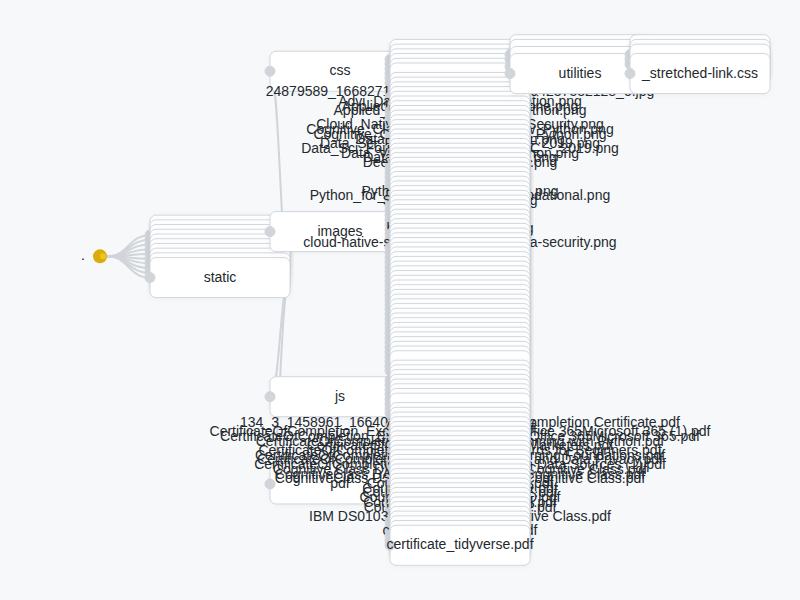
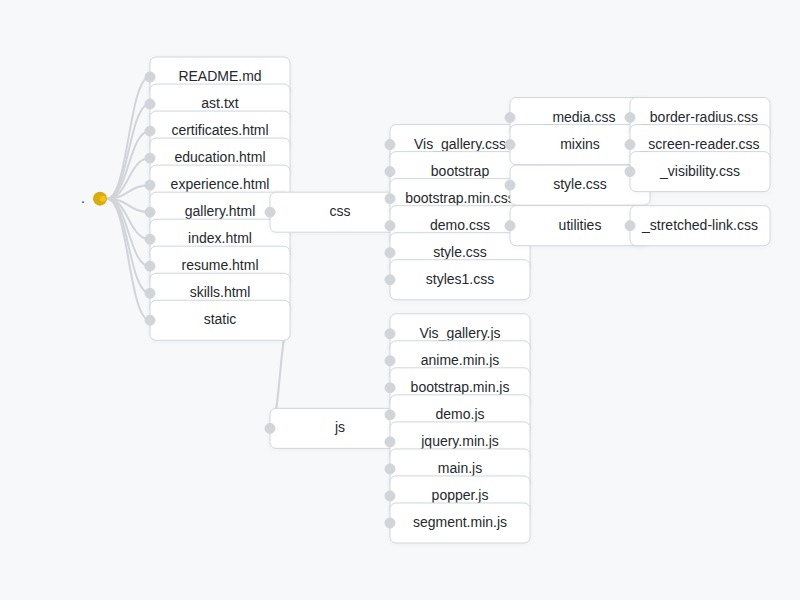
📦 Auto-update folder structure image and README

diff --git a/.github/rgraph/output.html b/.github/rgraph/output.html
@@ -51,7 +51,7 @@
 
   <script src="https://d3js.org/d3.v7.min.js"></script>
   <script>
-    const data = {"name":".","children":[{"name":"README.md"},{"name":"ast.txt"},{"name":"certificates.html"},{"name":"education.html"},{"name":"experience.html"},{"name":"gallery.html"},{"name":"index.html"},{"name":"resume.html"},{"name":"skills.html"},{"name":"static","children":[{"name":"css","children":[{"name":"Vis_gallery.css"},{"name":"bootstrap","children":[{"name":"_media.css"},{"name":"mixins","children":[{"name":"_border-radius.css"},{"name":"_screen-reader.css"},{"name":"_visibility.css"}]},{"name":"style.css"},{"name":"utilities","children":[{"name":"_stretched-link.css"}]}]},{"name":"bootstrap.min.css"},{"name":"demo.css"},{"name":"style.css"},{"name":"styles1.css"}]},{"name":"images","children":[{"name":"24879589_1668271593236377_8617789494237532128_o.jpg"},{"name":"400_1020-1.jpg"},{"name":"Advi_Data_Science_Specialization.png"},{"name":"Applied_Data_Science_Capstone.png"},{"name":"Applied_Data_Science_with_Python.png"},{"name":"Badge.png"},{"name":"CVD_DIST.svg"},{"name":"Cloud_Native_Sec_Conf_-_Data_Security.png"},{"name":"Cognitive_Class_-_Data_Analysis_w_Python.png"},{"name":"Cognitive_Class_-_Data_Visual_w_Python.png"},{"name":"Data_Analysis_using_Python.png"},{"name":"Data_Sci_Found_Level_1_-_CC_-_2019.png"},{"name":"Data_Sci_Foundations_Level_2_-_CC_-_2019.png"},{"name":"Data_Visualization_Using_Python.png"},{"name":"Data_Visualization_with_R.png"},{"name":"Deep_Learning_Essentials.png"},{"name":"FUll_Final.png"},{"name":"HD_main_Final.png"},{"name":"I2CS__1_.png"},{"name":"LSOPal8d.jpg"},{"name":"OIP.jpg"},{"name":"Python_101_Data_Science.png"},{"name":"Python_for_Data_Sci_and_AI_Foundational.png"},{"name":"Statistics_101_-_CC.png"},{"name":"UNI.jpg"},{"name":"UNI2.svg"},{"name":"UNID.jpg"},{"name":"UNIP.jpg"},{"name":"Wmap_RA_GB.png"},{"name":"bar chart-1.1s-47px.svg"},{"name":"bg.jpg"},{"name":"bgsv.svg"},{"name":"cloud-native-security-conference-data-security.png"},{"name":"credly.svg"},{"name":"datacleaning.png"},{"name":"dmimpot.png"},{"name":"dmr.png"},{"name":"dsbdge.png"},{"name":"favicon.ico"},{"name":"g11626.png"},{"name":"icon.png"},{"name":"icon.svg"},{"name":"logo.svg"},{"name":"logom.svg"},{"name":"logomain.svg"},{"name":"mm2.png"},{"name":"mnbg.svg"},{"name":"mysql.svg"},{"name":"overlay.png"},{"name":"pic01.jpg"},{"name":"pic02.jpg"},{"name":"pic03.jpg"},{"name":"pic04.jpg"},{"name":"pic05.jpg"},{"name":"pic06.jpg"},{"name":"pic07.jpg"},{"name":"pic08.jpg"},{"name":"pic09.jpg"},{"name":"worldmap-thumb-1.jpg"},{"name":"worldmap-thumb.jpg"}]},{"name":"js","children":[{"name":"Vis_gallery.js"},{"name":"anime.min.js"},{"name":"bootstrap.min.js"},{"name":"demo.js"},{"name":"jquery.min.js"},{"name":"main.js"},{"name":"popper.js"},{"name":"segment.min.js"}]},{"name":"pdf","children":[{"name":"134_3_1458961_1664024650_AWS Course Completion Certificate.pdf"},{"name":"Aws_data_migration.pdf"},{"name":"CertificateOfCompletion_Excel Essential Training Office 365Microsoft 365 (1).pdf"},{"name":"CertificateOfCompletion_Excel Essential Training Office 365Microsoft 365.pdf"},{"name":"CertificateOfCompletion_Functional Programming with Python.pdf"},{"name":"CertificateOfCompletion_GDPR for Marketers.pdf"},{"name":"CertificateOfCompletion_Power BI Dashboards for Beginners.pdf"},{"name":"CertificateOfCompletion_Reinforcement Learning Foundations.pdf"},{"name":"CertificateOfCompletion_Understand GDPR and Data Privacy.pdf"},{"name":"CertificateOfCompletion_Using Public Health Data Sources (1).pdf"},{"name":"Cognitive Class DV0151EN Certificate _ Cognitive Class.pdf"},{"name":"CognitiveClass DA0101EN Certificate _ Cognitive Class.pdf"},{"name":"CognitiveClass DS0105EN Certificate _ Cognitive Class.pdf"},{"name":"Coursera 7D2L7F69PJNU.pdf"},{"name":"Coursera 8FECG5TQ67QR.pdf"},{"name":"Coursera B2RPNHH5AN4Z.pdf"},{"name":"Coursera BFWEAWE6F6HD.pdf"},{"name":"Coursera L9YP7Y9DN3RM.pdf"},{"name":"Coursera SABWN423SF7P.pdf"},{"name":"Ds-handson.pdf"},{"name":"IBM DS0103EN Certificate _ Cognitive Class.pdf"},{"name":"certificate_EDA.pdf"},{"name":"certificate_clean_r.pdf"},{"name":"certificate_corr_reg_r.pdf"},{"name":"certificate_inter_r.pdf"},{"name":"certificate_stat.pdf"},{"name":"certificate_tidyverse.pdf"}]}]}]};
+    const data = {"name":".","children":[{"name":"README.md"},{"name":"ast.txt"},{"name":"certificates.html"},{"name":"education.html"},{"name":"experience.html"},{"name":"gallery.html"},{"name":"index.html"},{"name":"resume.html"},{"name":"skills.html"},{"name":"static","children":[{"name":"css","children":[{"name":"Vis_gallery.css"},{"name":"bootstrap","children":[{"name":"_media.css"},{"name":"mixins","children":[{"name":"_border-radius.css"},{"name":"_screen-reader.css"},{"name":"_visibility.css"}]},{"name":"style.css"},{"name":"utilities","children":[{"name":"_stretched-link.css"}]}]},{"name":"bootstrap.min.css"},{"name":"demo.css"},{"name":"style.css"},{"name":"styles1.css"}]},{"name":"js","children":[{"name":"Vis_gallery.js"},{"name":"anime.min.js"},{"name":"bootstrap.min.js"},{"name":"demo.js"},{"name":"jquery.min.js"},{"name":"main.js"},{"name":"popper.js"},{"name":"segment.min.js"}]}]}]};
 
     const svg = d3.select("svg"),
           width = window.innerWidth,
